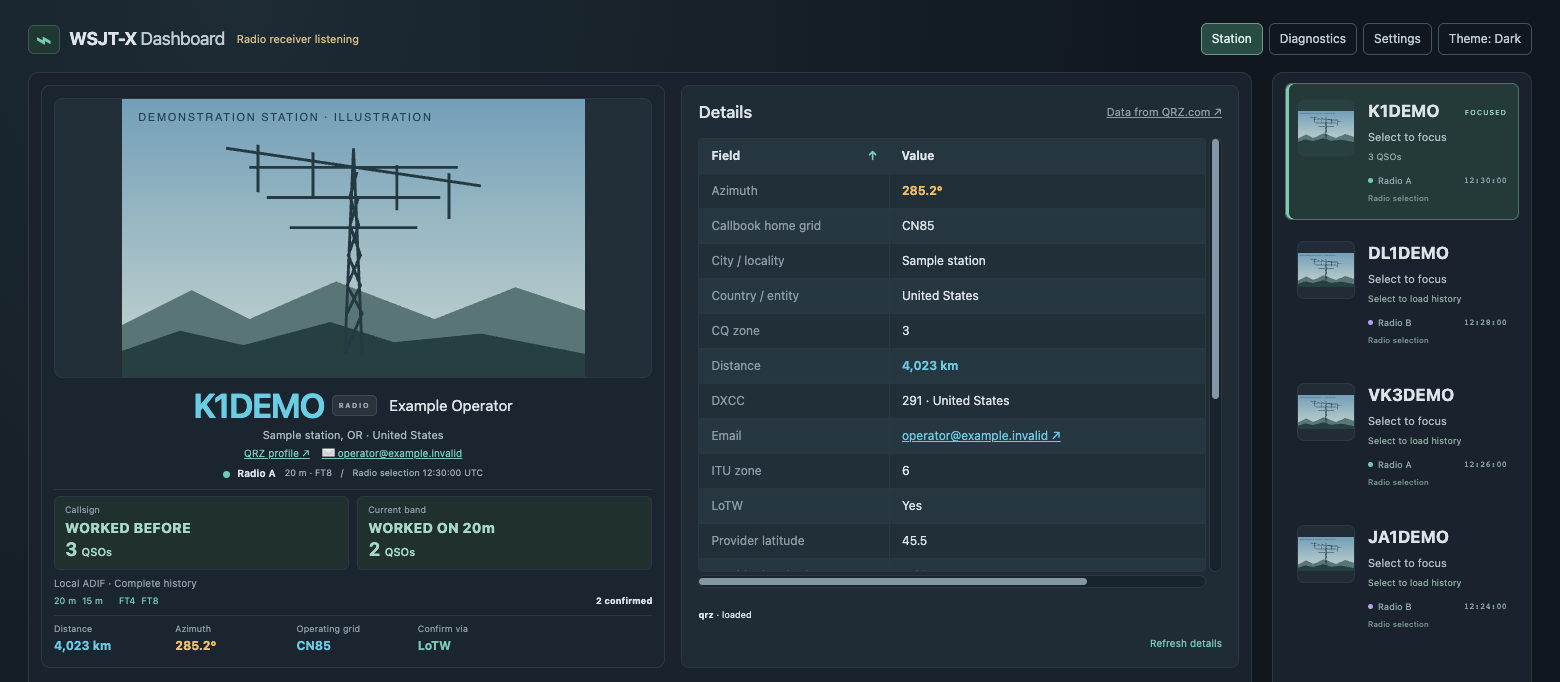
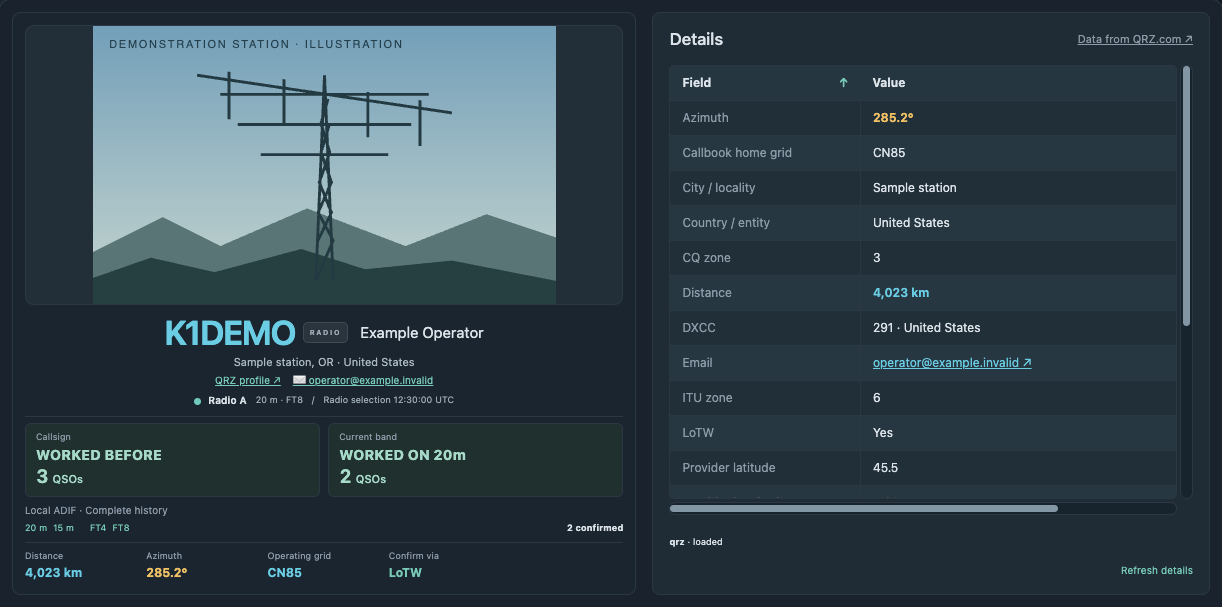
Frame README hero around station summary and details

diff --git a/docs/assets/README.md b/docs/assets/README.md
@@ -2,7 +2,7 @@
 
 `dashboard.png` captures the actual built Station view with fictional records supplied by [the capture script](../../scripts/capture-doc-screenshot.mjs). It uses an original MIT-licensed [antenna illustration](demo-antenna.svg), generic callsign examples and an `example.invalid` email. No live server/configuration/logbook or real operator photograph is used. The basemap retains its on-screen attribution.
 
-`dashboard-hero.png` is a wide capture of the same interface and fixtures, framed around the complete header, station summary, Details and four Focus History entries. The map and contact area are outside its frame. Both README images use GitHub's responsive Markdown image rendering; the hero links to its original PNG for closer viewing.
+`dashboard-hero.png` is a wide capture of the same interface and fixtures, framed around the complete station summary and Details cards. The header, Focus History, map and contact area are outside its frame. Both README images use GitHub's responsive Markdown image rendering; the hero links to its original PNG for closer viewing.
 
 Reproduce from an installed development checkout:
 

diff --git a/README.md b/README.md
@@ -2,7 +2,7 @@
 
 *See who you're working. Know who you've worked. Log the contact automatically.*
 
-[![WSJT-X Dashboard showing a fictional selected station, profile illustration, worked-before indicators, station details and Focus History](docs/assets/dashboard-hero.png)](docs/assets/dashboard-hero.png)
+[![WSJT-X Dashboard showing a fictional selected station, profile illustration, worked-before indicators and station details](docs/assets/dashboard-hero.png)](docs/assets/dashboard-hero.png)
 
 A self-hosted companion for WSJT-X: put the operator, previous contacts and station information beside your radio session. Run it on your station computer and open it in a browser. **Wavelog is optional.** Automatic logging and UDP forwarding are opt-in.
 
